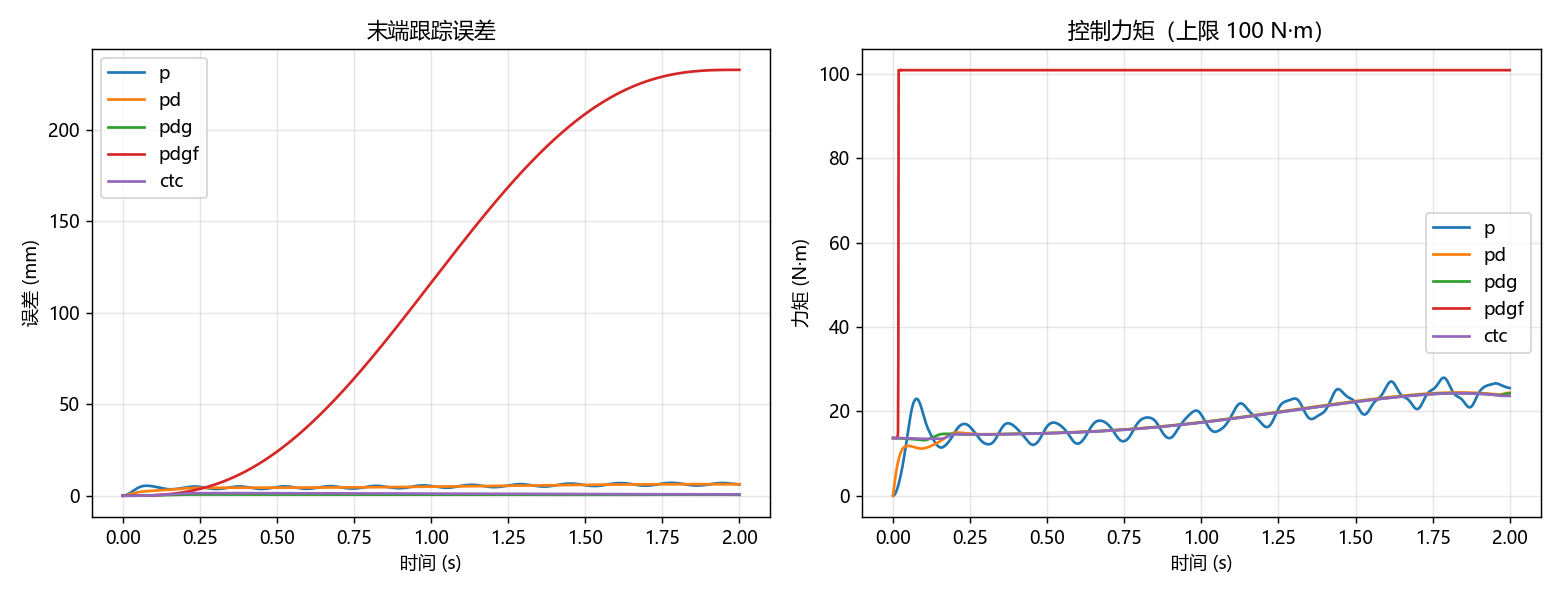
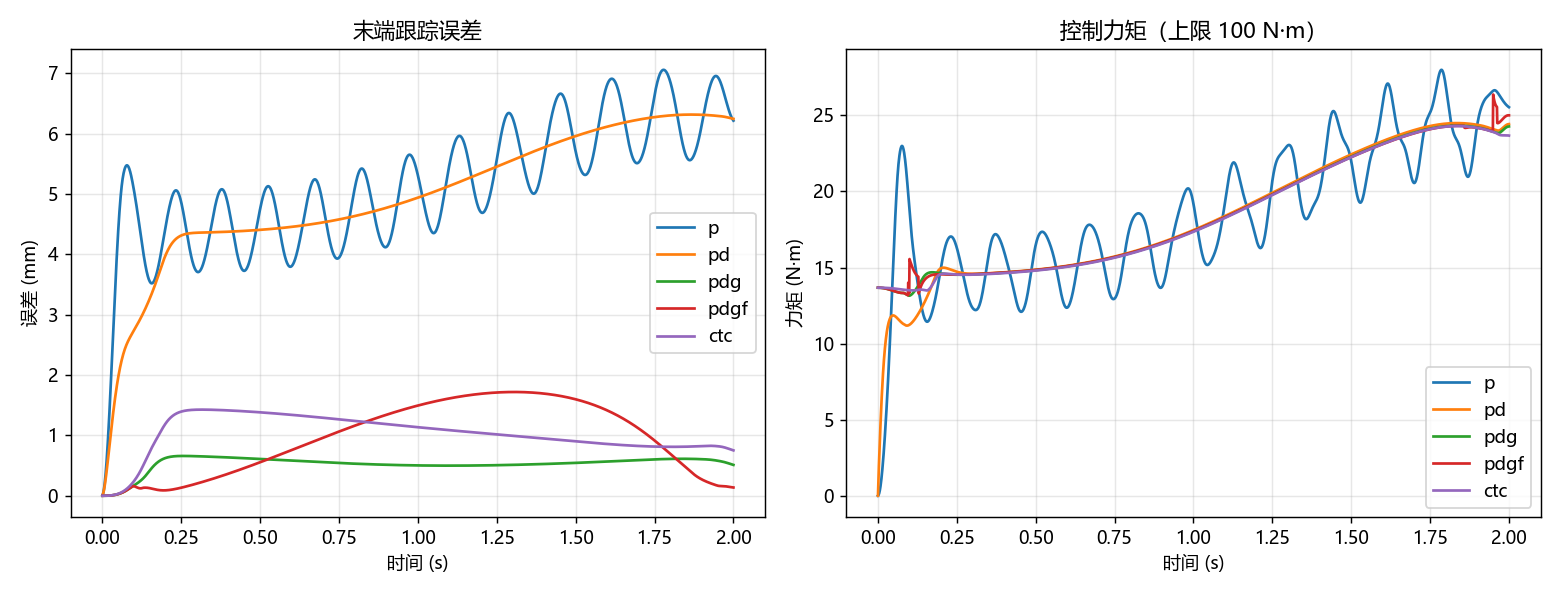
摩擦前馈回退为 sign+死区：tanh 版本发散（233mm/力矩打满）
- tanh 版本实测误差 232.6 mm、力矩触及 101 N·m 上限、1975 次 IK 失败
- 回退到 sign + 0.02 rad/s 死区，恢复 1.3 mm（后半段均值）
- 摩擦前馈仍是五条律里唯一没调好的，写进未决问题

diff --git a/tools/mujoco_ctrl.py b/tools/mujoco_ctrl.py
@@ -105,9 +105,12 @@ def main():
             elif law == "pdg":
                 tau = kp * e + kd * ed + ch.gravity(q_d)
             elif law == "pdgf":
-                # 用 tanh 平滑 sign，避免零速附近抖振
+                # 摩擦前馈：sign 有零速抖振，tanh 版本我调坏了（会发散），
+                # 先用 sign + 死区，等专门整定再改（见 README 未决问题）
+                v = qd_d.copy()
+                v[np.abs(v) < 0.02] = 0.0
                 tau = (kp * e + kd * ed + ch.gravity(q_d)
-                       + FC * np.tanh(np.degrees(qd) / 1.0) + FV * np.degrees(qd))
+                       + FC * np.sign(v) + FV * np.degrees(v))
             else:   # ctc
                 Mq = np.asarray(ch.mass_matrix(q_d), dtype=float)
                 bias = np.asarray(ch.bias(q_d, qd_d), dtype=float)
